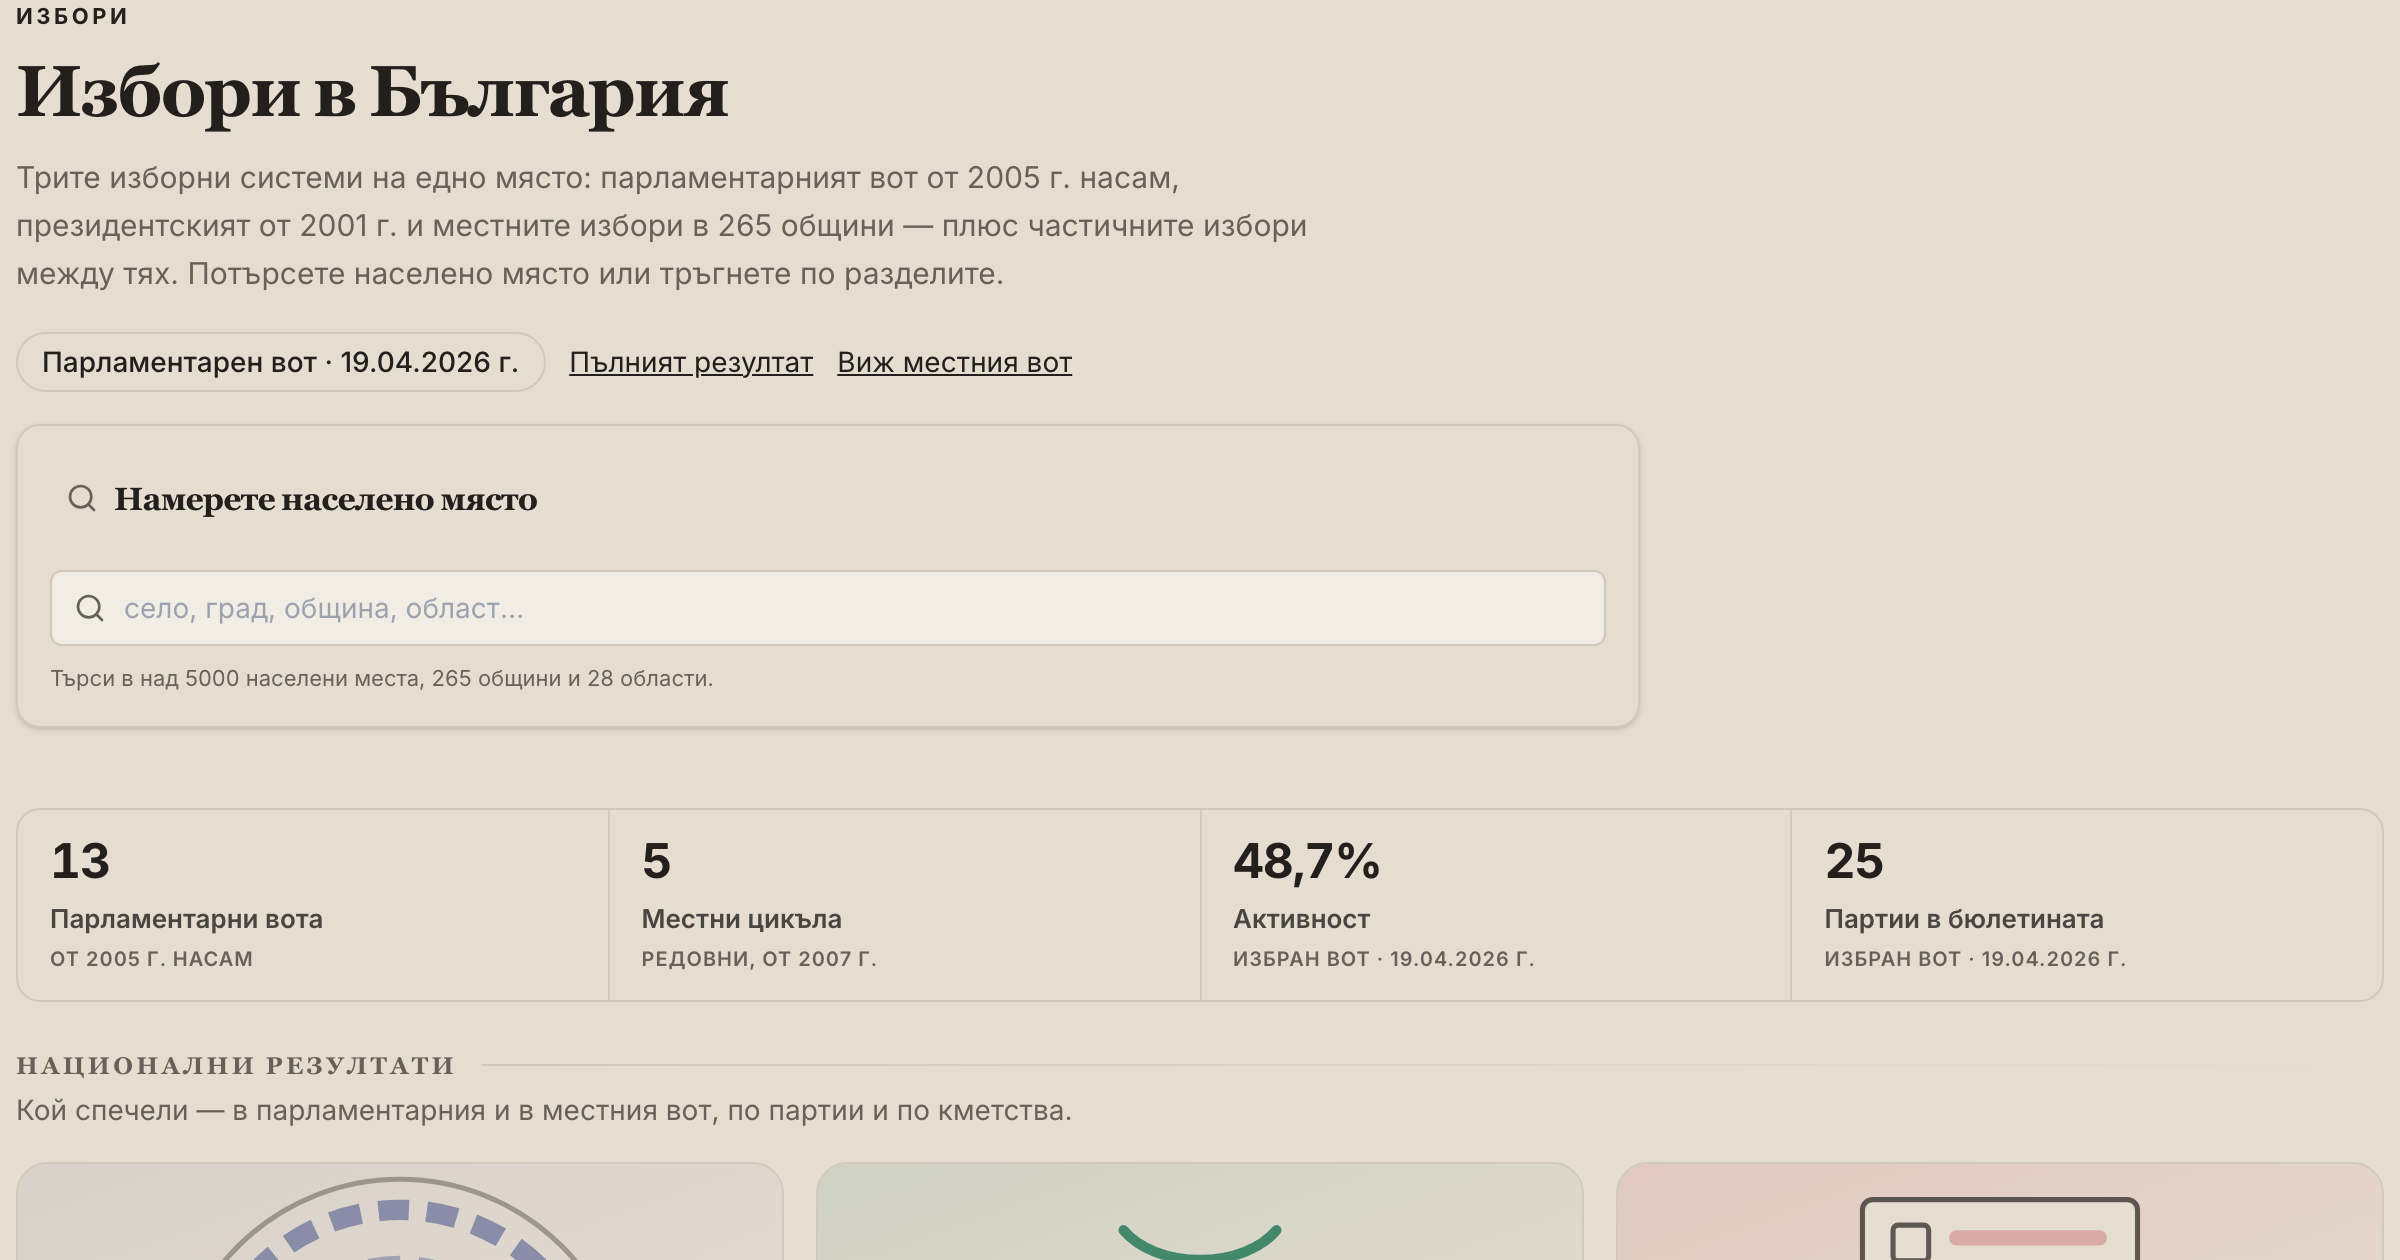
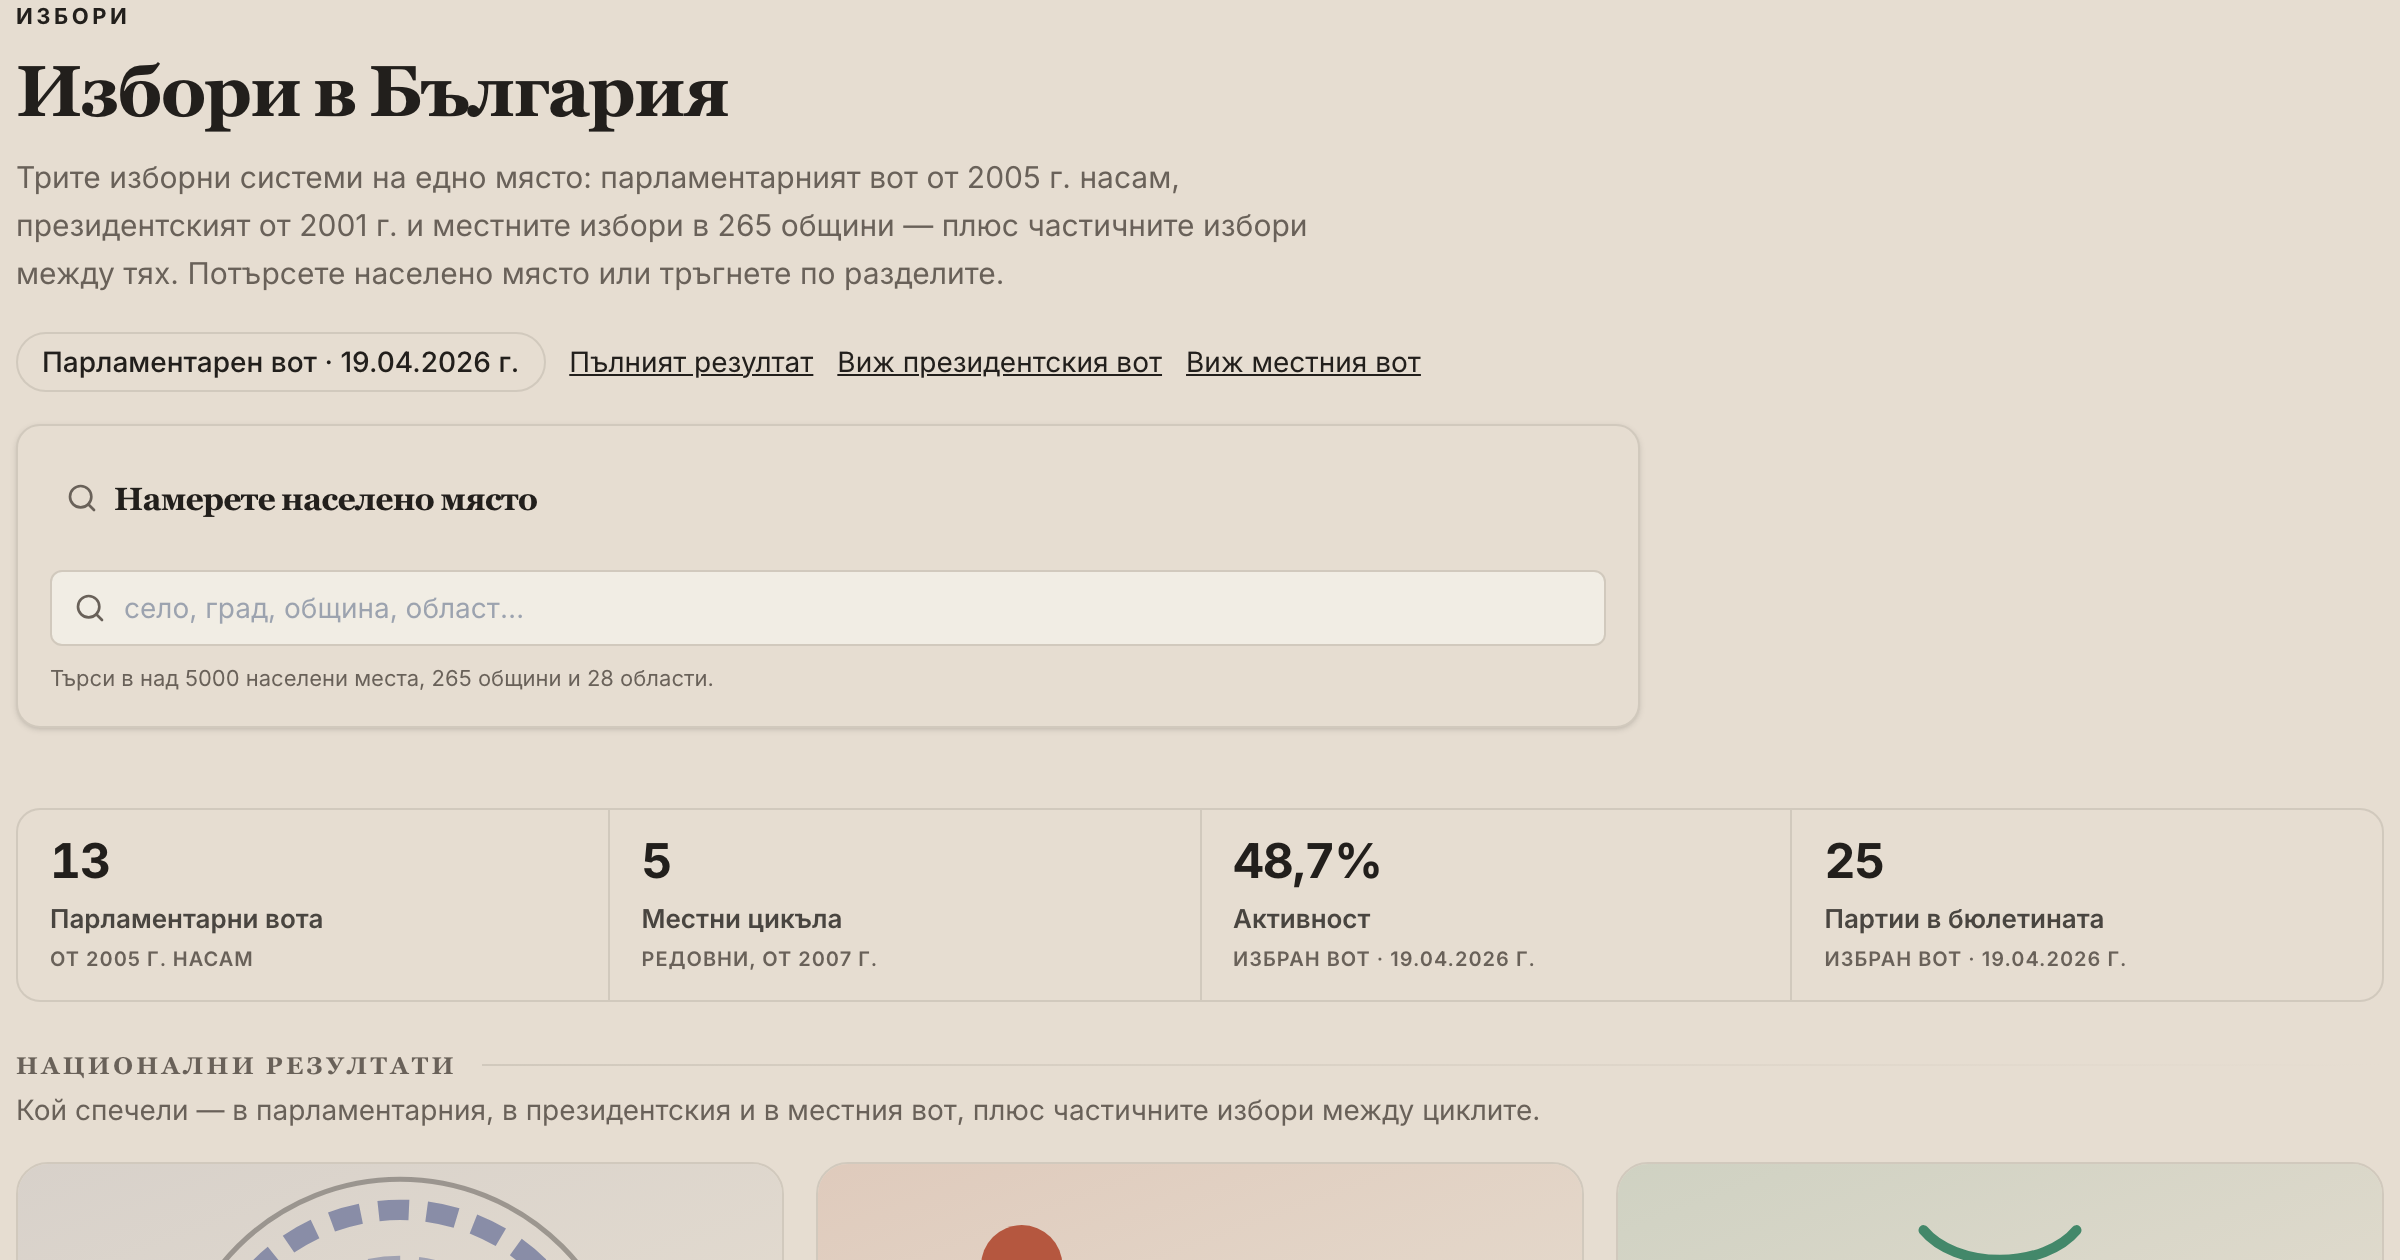
plan: record the seated presidential tile, and re-shoot the /elections card
The T4.4 record described the tile as WITHHELD, which stopped being true
when it shipped; it now carries the band decision it could not make for
itself, plus the four things that decision turned up — the header menu
reading the bands' own heading keys (a deleted band key rendered as raw
ASCII in the global nav), independents being neither prerendered nor
sitemapped, the prerender mirror having had no gate, and an empty
WITHHELD_TILES making its own gate vacuous. T4.10 records the scope row.

scripts/prerender/routes.ts said in a comment that no gate covers
ELECTIONS_HUB_SECTIONS. That was true when written and false since the
mirror gate landed an hour ago — the same class of stale claim the comment
itself warns about, one revision later.

The og card is re-shot because the head it depicts changed: the scope row
now carries a third link. The freshness gate compares git commit times, so
the card goes stale the moment the screen is committed and green again only
when the new PNG is.

diff --git a/scripts/prerender/routes.ts b/scripts/prerender/routes.ts
@@ -760,12 +760,16 @@ type StaticPageOpts = {
 // consequence: the two lists are compared TEXTUALLY by a gate rather than derived from one
 // another. Order included — the sections are the page's table of contents.
 //
-// ⚠ THERE IS NO GATE ON THIS LIST, and a previous version of this comment said there was.
-// `HOME_DESTINATIONS` genuinely has one (`homeHubBands.test.ts` regex-extracts its block from
-// this file and compares it against `HOME_TILES`); nothing reads `ELECTIONS_HUB_SECTIONS`
-// outside this module. So a link added here is kept in step with the registry BY HAND —
-// which is worth saying, because a comment promising a safety net discourages the check that
-// actually catches a drift.
+// ⚠ THERE IS A GATE SINCE 2026-09-07, and there was none for a long time before it — a
+// version of this comment said so, and one before that wrongly promised one. It is
+// `electionsHubBands.test.ts`' „the prerendered crawlable mirror" arm, which regex-extracts
+// the block below and compares it to `ELECTIONS_TILES`: all sixteen destinations in order,
+// and the four headings against BOTH corpora. Same treatment `HOME_DESTINATIONS` gets in
+// `homeHubBands.test.ts`.
+//
+// ⚠ WHAT IT DOES NOT CHECK is each link's own bg/en LABEL — that prose is written here and
+// nowhere else, so there is nothing to compare it against. And `independents` is allowlisted
+// BY NAME rather than by loosening the comparison: it is a link with no tile on purpose.
 const ELECTIONS_HUB_SECTIONS: {
   bg: string;
   en: string;

diff --git a/docs/plans/presidential-elections-v1.md b/docs/plans/presidential-elections-v1.md
@@ -968,7 +968,51 @@ type PresidentialRound = {
     every spelling rather than only the one a source-text match knew about.
 
 - **T4.4 ✅ DONE (the tile; the runoff-transfer tile stays with Tier 8).** The presidential tile is defined,
-  scened, keyed and WITHHELD.
+  scened, keyed and — **since 2026-09-07 — SHIPPED**. It was minted here at tier4 step 20 (`23fc83835d`) and
+  seated 36 commits later, after Tier 5 gave it a route and Tiers 8–9 came and went; what follows is the record
+  of why it waited, because the rules it teaches outlived the withholding.
+
+  **The band decision the registry could not make for itself, made.** `band-full` was the last blocker, and it
+  was not a formality: the results band held one parliamentary tile and three LOCAL ones against a four-column
+  `xl` grid, so seating a seventeenth tile meant deciding what leaves. The RESULTS band is now **one tile per
+  KIND of vote** — parliamentary · presidential · local · partial (`chmi`) — and the two national leaderboards
+  it used to carry moved into a new `rankings` band beside `strongest-mandates` / `closest-races`, with
+  `analysis` taking `swing` and `sverka`. The other three bands are grouped by question, as before.
+  `independents` left the page for the seventeenth slot.
+
+  Four things that decision turned up, each of which had to be answered before the tile could render:
+
+  - ⚠⚠ **THE HEADER MENU READS THE BANDS' OWN HEADING KEYS, so renaming a band breaks the GLOBAL NAV.**
+    `elections_band_partial` was deleted from both corpora with `reportMenus.ts` (line 144 as of
+    `f7274d6e86^`) still naming it, and
+    i18next renders a missing key as its own raw ASCII — so the Elections dropdown's section heading read
+    `elections_band_partial` on every page, in both languages, at a 200. Nothing was red: `electionsMenu.test.ts`
+    asserts the group titles as string LITERALS and never resolves them, `electionCopyCoverage.test.ts` cannot
+    see the header, and `key_usage.test.ts` checks the opposite direction. There is a second, quieter cost —
+    `saveMissing`/`healMissingKey` answers ANY missing key by eagerly importing every deferred locale bundle,
+    which a key in no bundle can never satisfy, handing back much of the −22% core-corpus win. The gate is
+    `src/layout/header/menuCopy.test.ts`: every title of every exported menu resolves, non-blank, in BOTH
+    corpora. The global nav's Elections DROPDOWN also gained the presidential leaf it never had — a different
+    control from T4.3's cycle-selector rows, which had carried the kind since that step.
+  - ⚠ **`independents` IS NEITHER PRERENDERED NOR SITEMAPPED, and the first draft of both comments claimed it
+    was.** No member of the `LocalMunicipalityListScreen` family is — `enumerateLocalMunicipalities` emits one
+    `<loc>` per obshtinaCode and can never emit a list segment — so the crawlable link in the prerendered
+    `/elections` body and the header menu leaf are what a crawler has, i.e. MORE load-bearing than „not
+    orphaning" implies. The decision to drop the tile stands; the reasoning had to be inverted.
+  - ⚠ **`ELECTIONS_HUB_SECTIONS` (the prerender's crawlable mirror) had no gate**, which its own comment said
+    honestly, and this is exactly the edit class that drifts it. It is now compared TEXTUALLY against the
+    registry — all sixteen destinations in order, and the four headings against BOTH corpora — the treatment
+    `HOME_DESTINATIONS` already had, with `independents` allowlisted BY NAME rather than by relaxing the
+    comparison. ⚠ The per-LINK labels are still uncompared: they are the prerender's own prose, not the
+    tiles' copy keys.
+  - ⚠ **AN EMPTY `WITHHELD_TILES` MAKES ITS OWN GATE VACUOUS.** The loop passes whatever the recompute says,
+    including nothing, so `blockersFor` takes injectable bands / kinds and is exercised against synthetic
+    inputs: measured, with the live values alone, deleting the `route` arm and replacing the tile-count test
+    with `true` each left the file entirely green (19 tests at the time of the experiment, 20 once the mirror
+    gate above landed). `TILES_PER_BAND` is now exported from the registry beside the rule, so the layout
+    constant and the blocker cannot drift.
+
+  **T4.4's original record follows.** The presidential tile was defined, scened, keyed and WITHHELD.
 
   ⚠⚠ **„T5 EMPTIES `KINDS_WITHOUT_SURFACE` AND IT JOINS THE RESULTS BAND WITH NO FURTHER EDIT" WAS WRONG,
   and it was written in three places before anyone measured it.** Emptying the list and re-running this hub's
@@ -1140,6 +1184,42 @@ type PresidentialRound = {
   reload (18,728, then 18,729 minutes apart); it is re-pinned at **18,729** only because it then held across
   two readings twenty seconds apart — a value written mid-load is stale before it is committed, and that gate
   re-pins BOTH sides or neither.
+
+- **T4.10 ✅ DONE (2026-09-07, added after the tier was written — T4.6 is the upcoming-ballot entry).** The
+  hub's scope row offers every OTHER kind, each anchored to the reader's own cycle. It rendered exactly ONE
+  link — `local ? "/parliamentary" : "/local/<latest>"` — which is not so much an omission as a two-catalogue
+  ASSUMPTION written into a ternary:
+  it reads „the other kind" while meaning „the other of the two I know about", so the presidency was
+  unreachable from this page for every reader on a parliamentary cycle, i.e. the ordinary case. Selecting
+  14.11.2021 now offers the presidential election held the SAME DAY, which is the one pairing in this corpus
+  where the two ballots share a date (§0, and Tier 8's split-ticket work).
+
+  ⚠⚠ **THE LOCAL CYCLE WAS NOT ANCHORED AT ALL, AND T5 IS WHAT MADE THAT REACHABLE.** `localCycle` fell
+  through to `useLatestLocalCycle()`, which reads `ElectionContext` — whose param is validated against the
+  PARLIAMENTARY catalogue only — so a `_pvr` id never resolved there and silently became the newest
+  parliamentary election. A `kind === "local"` special case rescued a local selection and nothing rescued a
+  presidential one. Measured: `?elections=2016_11_06_pvr` put a pill reading 6 November 2016 beside a link to
+  `/local/2023_10_29_mi`, and since the same value feeds the ten `cycleScoped: "local"` tiles, **eleven
+  destinations disagreed with the pill on every one of the five presidential cycles**. It is
+  `localAsOf(cycle.date)` now — the mirror image of the defect T4.4's own record describes, shipped by the one
+  kind that special case did not cover, exactly as that paragraph predicted in the other direction.
+
+  ⚠ **THE `kind === "local"` ARM STAYS, and it is not redundant with the anchor.** `localAsOf` resolves
+  REGULAR cycles only — partials surface through the chmi feed — so a partial selection would anchor to the
+  surrounding regular cycle rather than to itself. The catalogue holds no partials today; the arm is what
+  keeps that safe if it gains one.
+
+  ⚠ **A TUPLE IS NOT EXHAUSTIVE OVER THE UNION, and the comment claiming it was had to go.** Assigning
+  `["parliamentary","presidential","local"] as const` to a `{ kind: ElectionsHubKind }[]` compiles clean with a
+  fourth kind missing (measured on a fixture, exit 0): the narrow array is assignable to the wider one. The
+  model is now `Record`s over the union in `src/screens/elections/otherKinds.ts` — destination AND copy key,
+  the second because a template key would render `elections_hub_other_<newkind>` verbatim and, per
+  `src/locales/bundles.ts`, could never be deferred into a bundle. ⚠ **The DISPLAY ORDER needs its own
+  device**, and it is the load-bearing half: `OTHER_KIND_ORDER` is annotated `CoversEveryKind<typeof ORDER>`,
+  a conditional type that resolves to `never` — so the assignment fails — the moment the tuple stops covering
+  the union. Drop that annotation for a plain `readonly ElectionsHubKind[]` and the exact defect this bullet
+  is about is back, silently. `otherKinds.test.ts` covers the half no type can state: that every kind's label
+  actually exists in both corpora.
 
 ## 9. Tier 5 — screens and routes (5–7 days; product decisions marked ⚑)
 
@@ -1644,6 +1724,9 @@ decided from the repository as it stands.
 | winner rule          | `winnerRule.test.ts`                                                           | the two-condition rule on the five real outcomes plus a synthetic R1 win                                                                                                                                   |
 | byte stability       | `aggregate.test.ts`                                                            | two runs, identical output                                                                                                                                                                                 |
 | kind exhaustiveness  | existing `surfaceIsNotAHub`, `electionsHubCycle`, `electionCopyCoverage` tests | every switch over `ElectionKind` handles `presidential`                                                                                                                                                    |
+| hub menu copy        | `src/layout/header/menuCopy.test.ts`                                          | every title of every exported header menu resolves, non-blank, in BOTH corpora — the gate the `i18n` row below structurally cannot be: it checks corpus keys against call sites, not call sites against the corpus, so a band key deleted while the nav still named it rendered raw ASCII globally with everything green |
+| hub crawlable mirror | `electionsHubBands.test.ts` (the prerender mirror arm)                         | `ELECTIONS_HUB_SECTIONS` matches the tile registry — sixteen destinations in order, four headings in both corpora, `independents` allowlisted by name                                                        |
+| cross-kind links     | `src/screens/elections/otherKinds.test.ts`                                     | every `ElectionsHubKind` has a destination AND copy that exists in both corpora; the reader's own kind is never offered                                                                                       |
 | i18n                 | `key_usage.test.ts`, `bundle_reachability.test.ts`                             | no unreachable `presidential_*` key; bundle membership proven                                                                                                                                              |
 | SEO                  | `tests/seo.spec.ts`, `families.data.test.ts`                                   | every `<loc>` has a `dist/` page; canonicals do not redirect                                                                                                                                               |
 | block-256            | `machines_memory/index.test.ts`                                                | the presidential block parses with the same column shift and the `99` row is excluded                                                                                                                      |
